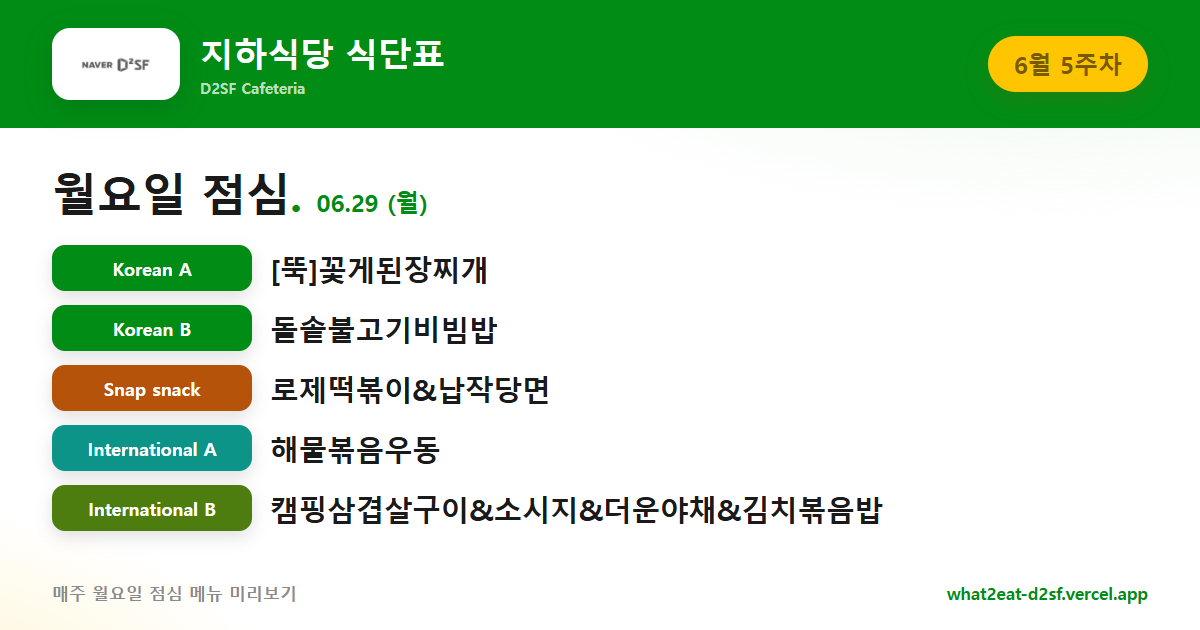
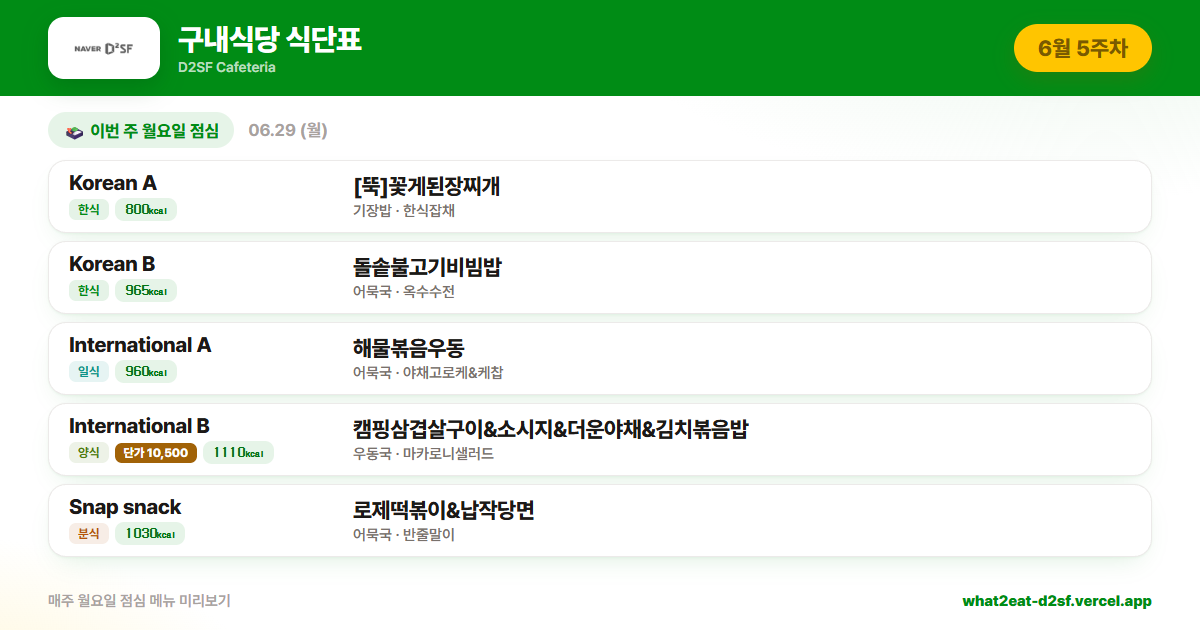
OG 프리뷰 개선 + 구내식당으로 리브랜딩
OG(링크 프리뷰):
- 코너 배치 Korean A·B → International A·B → Snap snack
- 코너별 대표 메뉴 3개씩 표시
- 실제 웹페이지 브랜딩 적용(Pretendard·소프트 카드·쿠진 태그·kcal 배지)
- 프리뷰 설명 문구를 고정 문구로 변경

리브랜딩(지하식당 → 구내식당, 사용자 노출 텍스트):
- 헤더 h1, 탭 타이틀, 본문 필, OG 카드/메타, package.json, README
- Slack 채널명(#5_공유해요_지하식당)은 실명이라 유지

diff --git a/index.html b/index.html
@@ -6,22 +6,22 @@
     <meta name="viewport" content="width=device-width, initial-scale=1.0" />
     <meta
       name="description"
-      content="D2SF 지하식당 주간 점심 식단표 — 조식·중식·석식·테이크아웃, 유형 필터, 메뉴 검색, 칼로리 분석"
+      content="D2SF 구내식당 주간 식단표 — 조식·중식·석식·테이크아웃, 메뉴 검색, 칼로리 분석"
     />
-    <title>D2SF 지하식당 식단표</title>
+    <title>D2SF 구내식당 식단표</title>
     <!-- OG:START (generate-og.mjs 가 매주 자동 갱신) -->
     <meta property="og:type" content="website" />
-    <meta property="og:site_name" content="D2SF 지하식당 식단표" />
+    <meta property="og:site_name" content="D2SF 구내식당 식단표" />
     <meta property="og:locale" content="ko_KR" />
     <meta property="og:url" content="https://what2eat-d2sf.vercel.app/" />
-    <meta property="og:title" content="D2SF 지하식당 — 6월 5주차 월요일 점심" />
-    <meta property="og:description" content="2026.06.29(월) ~ 07.03(금) · 월요일 점심 — Korean A [뚝]꽃게된장찌개 · Korean B 돌솥불고기비빔밥 · Snap snack 로제떡볶이&amp;납작당면 · International A 해물볶음우동 · International B 캠핑삼겹살구이&amp;소시지&amp;더운야채&amp;김치볶음밥" />
+    <meta property="og:title" content="D2SF 구내식당 — 6월 5주차 월요일 점심" />
+    <meta property="og:description" content="D2SF 구내식당 주간 식단표 — 조식·중식·석식·테이크아웃, 메뉴 검색, 칼로리 분석" />
     <meta property="og:image" content="https://what2eat-d2sf.vercel.app/og.png?v=2026-w5" />
     <meta property="og:image:width" content="1200" />
     <meta property="og:image:height" content="630" />
     <meta name="twitter:card" content="summary_large_image" />
-    <meta name="twitter:title" content="D2SF 지하식당 — 6월 5주차 월요일 점심" />
-    <meta name="twitter:description" content="2026.06.29(월) ~ 07.03(금) · 월요일 점심 — Korean A [뚝]꽃게된장찌개 · Korean B 돌솥불고기비빔밥 · Snap snack 로제떡볶이&amp;납작당면 · International A 해물볶음우동 · International B 캠핑삼겹살구이&amp;소시지&amp;더운야채&amp;김치볶음밥" />
+    <meta name="twitter:title" content="D2SF 구내식당 — 6월 5주차 월요일 점심" />
+    <meta name="twitter:description" content="D2SF 구내식당 주간 식단표 — 조식·중식·석식·테이크아웃, 메뉴 검색, 칼로리 분석" />
     <meta name="twitter:image" content="https://what2eat-d2sf.vercel.app/og.png?v=2026-w5" />
     <!-- OG:END -->
   </head>

diff --git a/src/components/WeeklyLunchMenu.jsx b/src/components/WeeklyLunchMenu.jsx
@@ -3,7 +3,7 @@ import { Search, X, CalendarDays, CalendarCheck, LayoutList, Flame, Info, Utensi
 import { CUISINE, TAG, MEALS, BRAND } from "../theme.js";
 
 /**
- * 지하식당 주간 식단표 (프레젠테이션 컴포넌트)
+ * 구내식당 주간 식단표 (프레젠테이션 컴포넌트)
  * 주차 데이터는 `week` prop으로 주입받습니다 — { id, label, range, days, sets, staticTakeout }.
  * 로직·레이아웃은 원본 그대로 유지하고, 팔레트만 써브웨이 그린·옐로우 체계로 재배색.
  */
@@ -157,7 +157,7 @@ export default function WeeklyLunchMenu({ week }) {
       <div className="mx-auto max-w-6xl px-5 py-8">
         <header className="text-center">
           <div className="mb-2 inline-flex items-center gap-2 rounded-full px-3 py-1 text-[12px] font-bold" style={{ backgroundColor: BRAND.greenSoft, color: BRAND.green }}>
-            <UtensilsCrossed size={14} /> 오늘 지하식당, 신선하게 한 끼
+            <UtensilsCrossed size={14} /> 오늘 구내식당, 신선하게 한 끼
           </div>
           <h1 className="text-[34px] font-extrabold leading-tight tracking-tight text-stone-900">이번 주 식단표 🥗</h1>
           <p className="mt-1 text-[14px] text-stone-500">{range}</p>

diff --git a/src/components/Header.jsx b/src/components/Header.jsx
@@ -20,7 +20,7 @@ export default function Header({ weeks, weekId, onWeekChange }) {
             <img src="/d2sf-logo.png" alt="D2SF" className="h-5 w-auto sm:h-6" />
           </span>
           <div className="leading-tight">
-            <h1 className="text-[18px] font-extrabold tracking-tight text-white sm:text-[20px]">지하식당 식단표</h1>
+            <h1 className="text-[18px] font-extrabold tracking-tight text-white sm:text-[20px]">구내식당 식단표</h1>
             <p className="text-[11px] font-medium text-white/70">D2SF Cafeteria</p>
           </div>
         </div>

diff --git a/README.md b/README.md
@@ -1,6 +1,6 @@
-# D2SF 지하식당 주간 점심 식단표
+# D2SF 구내식당 주간 식단표
 
-D2SF 지하식당의 주간 점심 식단을 보여주는 정적 웹사이트입니다.
+D2SF 구내식당의 주간 점심 식단을 보여주는 정적 웹사이트입니다.
 조식·중식·석식·테이크아웃 탭, 한·중·일·양·분식 유형 필터, 메뉴 검색,
 칼로리 분석(가볍게 / 든든하게)을 제공합니다.
 
